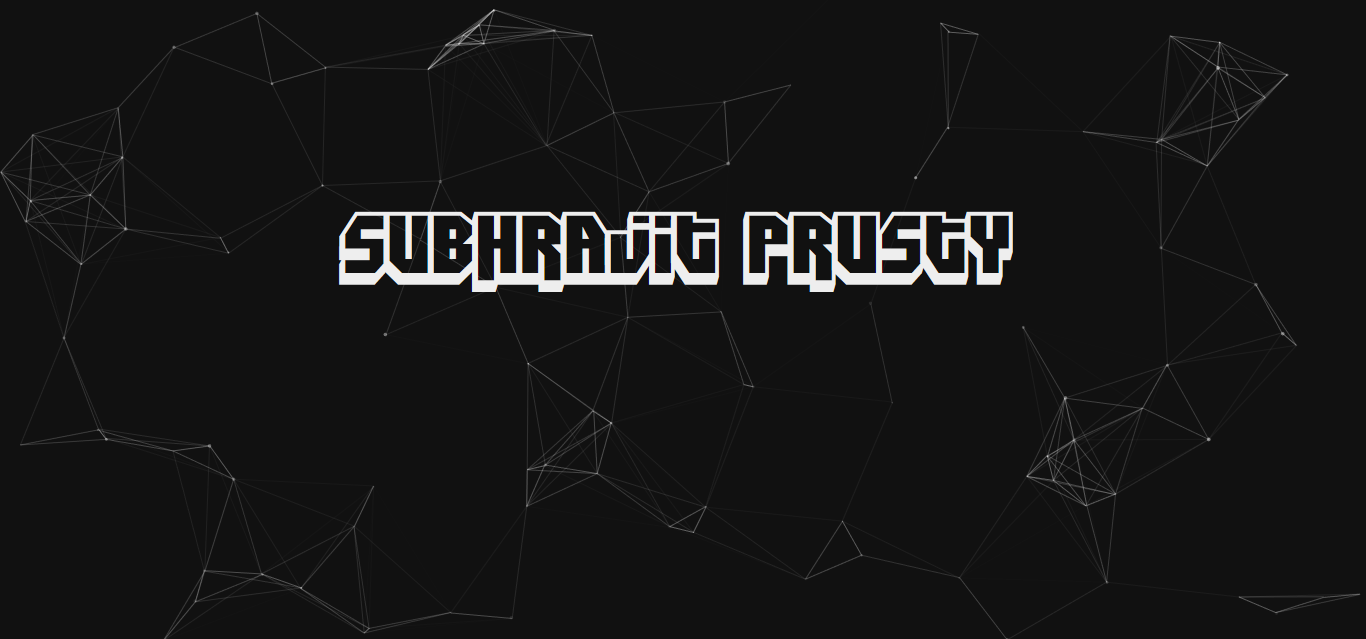
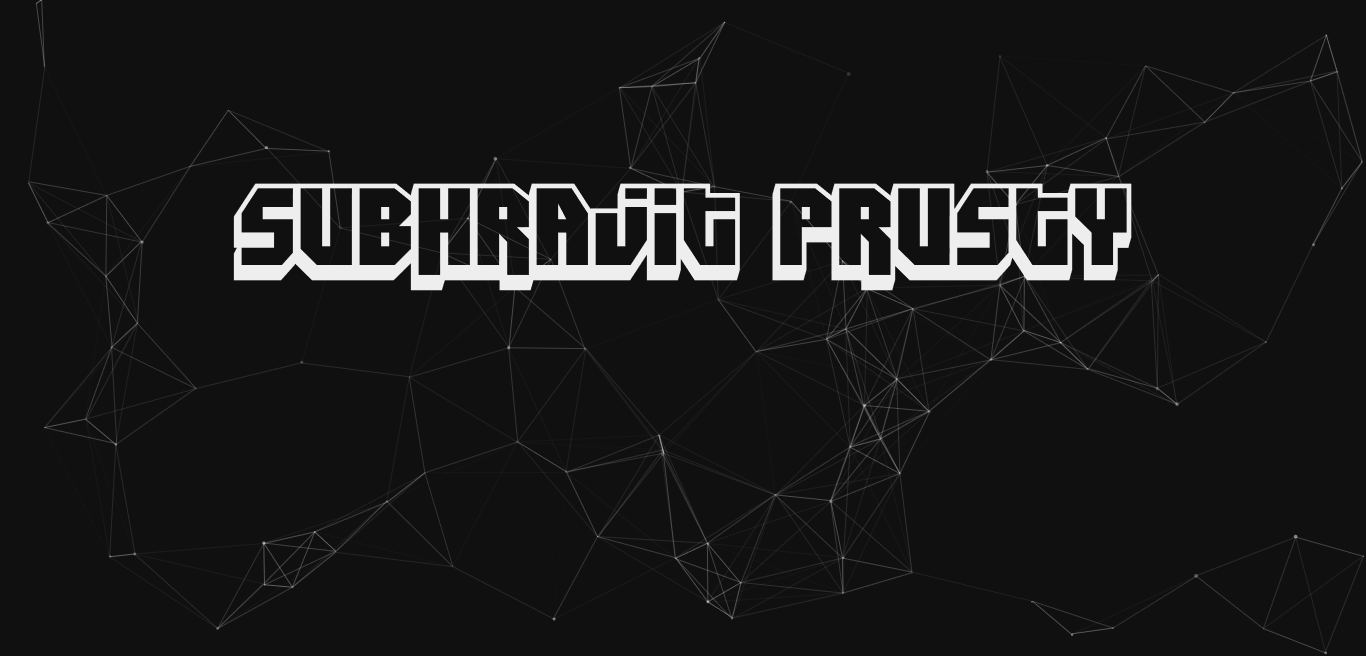
updated screenshot, README

diff --git a/README.md b/README.md
@@ -1,5 +1,3 @@
 [![subhrajitprusty.github.io](https://img.shields.io/badge/subhrajit-prusty-blue.svg?longCache=true&style=for-the-badge)](https://subhrajitprusty.github.io)
 
-# [subhrajitprusty.github.io](https://subhrajitprusty.github.io)
-
 ![Screenshot](./screenshot.png)
